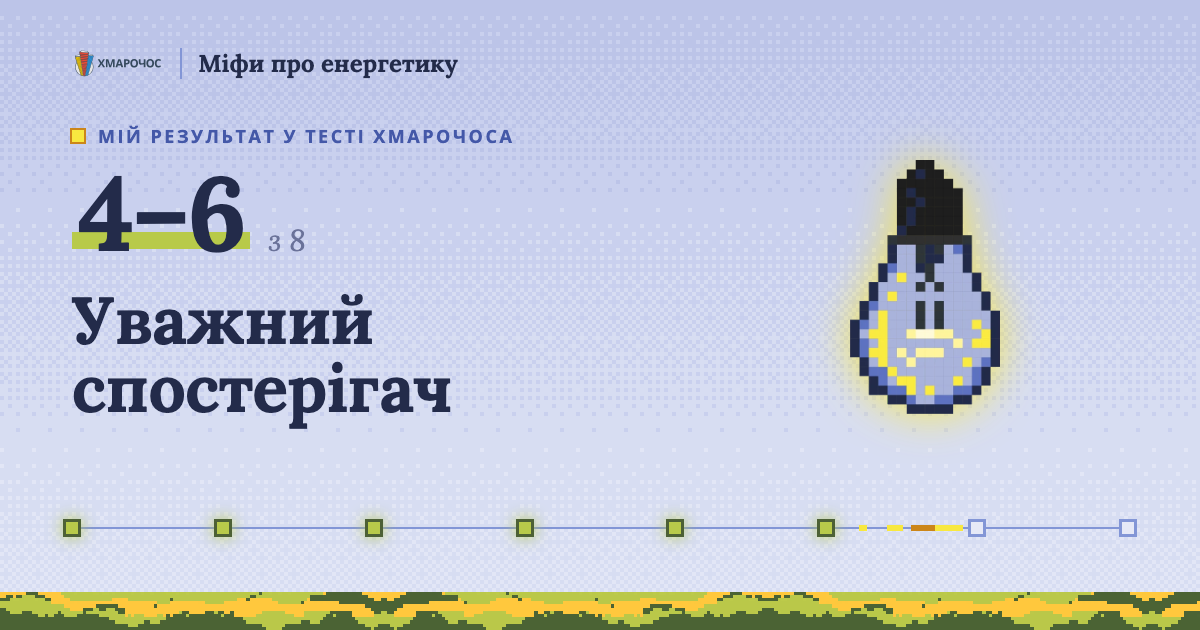
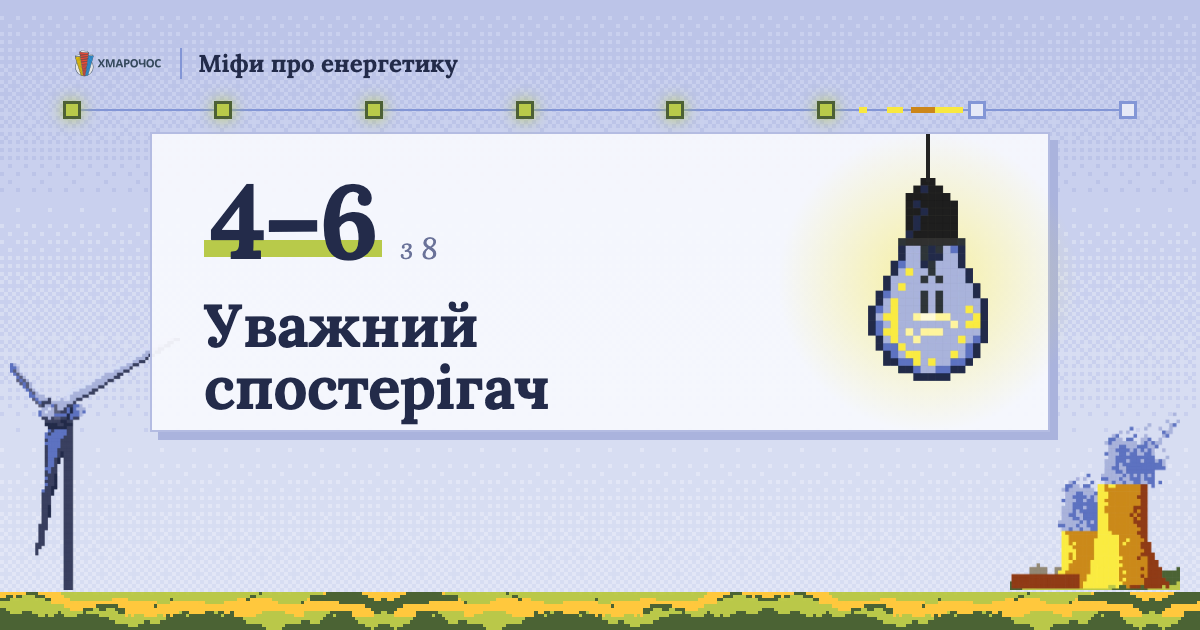
Мережа: без дрібних заголовків капсом; шер-сторінки з точними балами /s/0–8 зі своїми OG; OG у вигляді плашки результату; запасне копіювання для вбудованих браузерів; бали в тексті поширення

diff --git a/og-src/og.html b/og-src/og.html
@@ -27,7 +27,7 @@ body.night .ground { background-image: url("../public/art/px/hills-night.png"); 
 .px { image-rendering: pixelated; display: block; }
 
 /* старт */
-.start .text { position: absolute; left: 72px; top: 136px; width: 500px; }
+.start .text { position: absolute; left: 72px; top: 150px; width: 500px; }
 .start h1 { margin: 16px 0 0; font: 700 70px/1.02 "Lora", serif; letter-spacing: -.015em; }
 .cta { display: inline-flex; align-items: center; gap: 22px; margin-top: 34px; height: 78px; padding: 0 32px 6px; background: var(--amber); color: var(--text); font-weight: 700; font-size: 26px; box-shadow: inset 0 0 0 3px var(--text), inset 0 -10px 0 0 var(--amber-2), inset 0 -10px 0 3px var(--text); }
 .plate { position: absolute; }
@@ -35,26 +35,37 @@ body.night .ground { background-image: url("../public/art/px/hills-night.png"); 
 .start .plate img { width: 100%; }
 
 /* лінія мережі */
-.grid { position: absolute; left: 72px; right: 72px; bottom: 92px; height: 20px; }
+.grid { position: absolute; left: 72px; right: 72px; top: 100px; height: 20px; }
 .grid::before { content: ""; position: absolute; left: 0; right: 0; top: 9px; height: 2px; background: var(--line-2); }
 .grid i { position: absolute; top: 1px; width: 18px; height: 18px; transform: translateX(-50%); background: var(--bg-2); border: 3px solid var(--line-2); }
 .grid i.on { background: #b8ca4a; border-color: #4d6135; box-shadow: 0 0 16px rgba(184,202,74,.9); }
 .grid .pulse { position: absolute; top: 7px; width: 120px; height: 6px; background: linear-gradient(90deg, transparent 0 16px, var(--amber) 16px 24px, transparent 24px 44px, var(--amber) 44px 60px, transparent 60px 68px, var(--orange) 68px 92px, var(--amber) 92px 120px); }
 
-/* рівень */
+/* рівень: плашка як на сайті — світла, тонка лінія, піксельна тінь; арт усередині праворуч */
 .lvl { display: none; }
+.card { position: absolute; left: 150px; right: 150px; top: 132px; height: 300px; background: rgba(247,248,253,.95); border: 2px solid var(--line); box-shadow: 8px 8px 0 var(--cloud); }
+.card .text { position: absolute; left: 52px; top: 40px; width: 560px; }
+.card .art { position: absolute; right: 60px; top: 0; bottom: 0; display: grid; place-items: center; }
+.card .art img { position: relative; image-rendering: auto; }
+.card .art::before { content: ""; position: absolute; left: 50%; top: 50%; width: 300px; height: 300px; transform: translate(-50%, -50%); background: radial-gradient(closest-side, rgba(248,232,64,.5), rgba(248,232,64,0)); }
+.card .art.warm::before { background: radial-gradient(closest-side, rgba(252,150,50,.45), rgba(252,150,50,0)); }
+/* лампочка висить на шнурі від верхнього краю плашки */
+.card .art.hang { place-items: start center; padding-top: 44px; }
+.card .art.hang::after { content: ""; position: absolute; left: 50%; top: 0; width: 4px; height: 48px; transform: translateX(-50%); background: #232323; }
+.mill, .plant { position: absolute; bottom: 40px; image-rendering: auto; }
+.mill { left: 10px; width: 170px; }
+.plant { right: 20px; width: 170px; }
 body.level .start { display: none; }
 body.level .lvl { display: block; }
-.lvl .text { position: absolute; left: 72px; top: 124px; width: 640px; }
-.score { display: flex; align-items: baseline; gap: 18px; margin-top: 18px; }
+
+.score { display: flex; align-items: baseline; gap: 18px; }
 .score b { font: 700 104px/.9 "Lora", serif; color: var(--text); letter-spacing: -.03em; padding: 0 6px; background: linear-gradient(transparent 70%, #b8ca4a 70% 88%, transparent 88%); }
 .score span { font: italic 400 30px "Lora", serif; color: var(--mute); }
-.lvl h1 { margin: 26px 0 0; font: 700 66px/1.04 "Lora", serif; letter-spacing: -.01em; }
-.lvl .plate { right: 80px; top: 112px; width: 390px; height: 350px; display: grid; place-items: center; background: none; box-shadow: none; }
+.lvl h1 { margin: 26px 0 0; font: 700 60px/1.04 "Lora", serif; letter-spacing: -.01em; }
 
 
-.lvl .plate img { position: relative; image-rendering: auto; filter: drop-shadow(0 0 22px rgba(248,232,64,.9)); }
-.lvl .plate.warm img { filter: drop-shadow(0 0 22px rgba(252,150,50,.8)); }
+
+
 </style>
 </head>
 <body>
@@ -62,7 +73,6 @@ body.level .lvl { display: block; }
 
   <div class="start">
     <div class="text">
-      <div class="cap">Тест · Енергетика</div>
       <h1>Міфи про українську енергетику</h1>
       <div class="cta">Пройти тест <svg viewBox="0 0 22 10" width="34" height="16" fill="none" stroke="currentColor" stroke-width="1.6"><path d="M0 5h20M16 1l4 4-4 4"/></svg></div>
     </div>
@@ -70,12 +80,15 @@ body.level .lvl { display: block; }
   </div>
 
   <div class="lvl">
-    <div class="text">
-      <div class="cap">Мій результат у тесті Хмарочоса</div>
-      <div class="score"><b id="range"></b><span>з 8</span></div>
-      <h1 id="title"></h1>
+    <img class="mill" src="../public/art/windmill.webp" alt="">
+    <img class="plant" src="../public/art/plant.webp" alt="">
+    <div class="card">
+      <div class="text">
+        <div class="score"><b id="range"></b><span>з 8</span></div>
+        <h1 id="title"></h1>
+      </div>
+      <div class="art" id="plate"><img id="art" alt=""></div>
     </div>
-    <div class="plate" id="plate"><img class="px" id="art" alt=""></div>
   </div>
 
   <div class="grid" id="grid"></div>
@@ -83,23 +96,27 @@ body.level .lvl { display: block; }
 
 <script>
   const LEVELS = {
-    hostage: { title: "Заручник інфопростору", range: "0–3", max: 3, art: "candle", w: 112, warm: true },
-    observer: { title: "Уважний спостерігач", range: "4–6", max: 6, art: "bulb-lamp", w: 150 },
-    analyst: { title: "Енергетичний аналітик", range: "7–8", max: 8, art: "battery", w: 340 },
+    hostage: { title: "Заручник інфопростору", range: "0–3", max: 3, art: "candle", w: 100, warm: true },
+    observer: { title: "Уважний спостерігач", range: "4–6", max: 6, art: "bulb-lamp", w: 120 },
+    analyst: { title: "Енергетичний аналітик", range: "7–8", max: 8, art: "battery", w: 260 },
   };
-  const l = LEVELS[new URLSearchParams(location.search).get("l")];
-  const lit = l ? l.max : 0;
+  // ?s=<бали> — точна кількість балів; ?l=<рівень> — діапазон рівня
+  const qs = new URLSearchParams(location.search);
+  const sc = qs.has("s") ? Number(qs.get("s")) : null;
+  const l = sc !== null ? Object.values(LEVELS).find((v) => sc <= v.max) : LEVELS[qs.get("l")];
+  const lit = l ? (sc ?? l.max) : 0;
   document.getElementById("grid").innerHTML =
     Array.from({ length: 8 }, (_, i) => `<i class="${i < lit ? "on" : ""}" style="left:${(i / 7) * 100}%"></i>`).join("") +
     `<span class="pulse" style="left:${l ? Math.min(85, (lit / 7) * 100) - 12 : 30}%"></span>`;
   if (l) {
     document.body.classList.add("level");
     document.getElementById("title").textContent = l.title;
-    document.getElementById("range").textContent = l.range;
+    document.getElementById("range").textContent = sc !== null ? String(sc) : l.range;
+    if (l.art === "bulb-lamp") document.getElementById("plate").classList.add("hang");
     const a = document.getElementById("art");
     a.src = `../public/art/${l.art}.webp`;
     a.style.width = l.w + "px";
-    if (l.warm) { document.getElementById("plate").classList.add("warm"); document.body.classList.add("night"); }
+    if (l.warm) { document.getElementById("plate").classList.add("warm"); document.body.classList.add("night"); document.querySelectorAll(".mill,.plant").forEach((e) => (e.style.filter = "brightness(.55) saturate(.7)")); }
   }
 </script>
 </body>

diff --git a/app/skins/grid/GridSkin.tsx b/app/skins/grid/GridSkin.tsx
@@ -10,13 +10,12 @@ import { useEffect, useLayoutEffect, useRef, useState } from "react";
 import { scrollToStart, type QuizApi } from "../../useQuiz";
 import { COVER_ALT, VERDICT_LABEL, intro, TOTAL, type Level, type Question, type Verdict } from "../../../data/quiz";
 import { asset } from "../../bp";
-import { SITE_URL, TEST_SHARE_TEXT, resultShareUrl } from "../../share";
+import { SITE_URL, TEST_SHARE_TEXT, resultShareUrl, scoreShareUrl } from "../../share";
 import { buzz, glide, useKeys } from "../common";
 import { FB, TG } from "../pixel/icons";
 
 /** Підписи інтерфейсу (не контент тесту) — усі в одному місці. */
 const UI = {
-  kicker: "Тест · Енергетика",
   start: "Почати тест",
   next: "Наступне твердження",
   finish: "Мій результат",
@@ -26,14 +25,11 @@ const UI = {
   sources: "Джерела:",
   again: "Пройти ще раз",
   take: "Пройти тест",
-  shareTest: "Поділитися тестом",
-  shareResult: "Поділитися результатом",
   copy: "Копіювати",
   copied: "Скопійовано",
   other: "Інше…",
   site: "hmarochos.kiev.ua",
   of: (t: number) => `з ${t}`,
-  yourResult: "Ваш результат",
   sharedResult: "Результат тесту",
   live: "підстанцій під напругою",
   nf: "Тут світла немає — сторінку не знайдено",
@@ -142,7 +138,31 @@ function Free({ src, warm, hang, className = "" }: { src: string; warm?: boolean
   );
 }
 
-function Share({ url, text, label }: { url: string; text: string; label: string }) {
+/** Копіювання з запасним шляхом: у вбудованих браузерах (Instagram, Facebook) clipboard API часто недоступний. */
+async function copyText(t: string) {
+  try {
+    await navigator.clipboard.writeText(t);
+    return true;
+  } catch {
+    const ta = document.createElement("textarea");
+    ta.value = t;
+    ta.setAttribute("readonly", "");
+    ta.style.position = "fixed";
+    ta.style.opacity = "0";
+    document.body.append(ta);
+    ta.select();
+    let ok = false;
+    try {
+      ok = document.execCommand("copy");
+    } catch {
+      /* не вдалося */
+    }
+    ta.remove();
+    return ok;
+  }
+}
+
+function Share({ url, text }: { url: string; text: string }) {
   const [copied, setCopied] = useState(false);
   const [native, setNative] = useState(false);
   useEffect(() => {
@@ -154,12 +174,9 @@ function Share({ url, text, label }: { url: string; text: string; label: string 
   };
   const copy = async () => {
     buzz(8);
-    try {
-      await navigator.clipboard.writeText(`${text} ${url}`);
+    if (await copyText(`${text} ${url}`)) {
       setCopied(true);
       setTimeout(() => setCopied(false), 1500);
-    } catch {
-      /* ignore */
     }
   };
   const more = async () => {
@@ -172,7 +189,6 @@ function Share({ url, text, label }: { url: string; text: string; label: string 
   };
   return (
     <div className="share">
-      <p className="cap">{label}</p>
       <div className="shareRow">
         <button type="button" className="sbtn" onClick={() => popup(`https://www.facebook.com/sharer/sharer.php?u=${encodeURIComponent(url)}`)}>
           <svg viewBox="0 0 24 24" aria-hidden>
@@ -354,10 +370,10 @@ function CountUp({ to }: { to: number }) {
   return <>{n}</>;
 }
 
-function ResultBody({ level, history, onRestart }: { level: Level; history?: boolean[]; onRestart?: () => void }) {
-  const score = history?.filter(Boolean).length;
-  // на шер-сторінці історії немає — показуємо мережу за верхньою межею рівня
-  const shown = history ?? Array.from({ length: level.max }, () => true);
+function ResultBody({ level, history, fixed, onRestart }: { level: Level; history?: boolean[]; fixed?: number; onRestart?: () => void }) {
+  const score = history ? history.filter(Boolean).length : fixed;
+  // на шер-сторінці історії немає — вмикаємо стільки підстанцій, скільки балів
+  const shown = history ?? Array.from({ length: fixed ?? level.max }, () => true);
   return (
     <main className="nm result">
       <div className="col">
@@ -367,7 +383,7 @@ function ResultBody({ level, history, onRestart }: { level: Level; history?: boo
           <div className="rmain rise">
             <div className="rtop">
             <div>
-            <p className="cap">{history ? UI.yourResult : `${UI.sharedResult} «${intro.title}»`}</p>
+            {!history && <p className="shared">{`${UI.sharedResult} «${intro.title}»`}</p>}
             {score !== undefined ? (
               <p className="score">
                 <b>
@@ -389,9 +405,12 @@ function ResultBody({ level, history, onRestart }: { level: Level; history?: boo
             </div>
             <p className="ldesc">{level.description}</p>
             {history ? (
-              <Share url={resultShareUrl(level.slug)} text={level.shareText} label={UI.shareResult} />
+              <Share
+                url={score !== undefined ? scoreShareUrl(score) : resultShareUrl(level.slug)}
+                text={score !== undefined ? `${score} з ${TOTAL}. ${level.shareText}` : level.shareText}
+              />
             ) : (
-              <Share url={`${SITE_URL}/`} text={TEST_SHARE_TEXT} label={UI.shareTest} />
+              <Share url={`${SITE_URL}/`} text={TEST_SHARE_TEXT} />
             )}
             {onRestart ? (
               <button
@@ -418,8 +437,8 @@ function ResultBody({ level, history, onRestart }: { level: Level; history?: boo
   );
 }
 
-export function ResultPage({ level }: { level: Level }) {
-  return <ResultBody level={level} />;
+export function ResultPage({ level, score }: { level: Level; score?: number }) {
+  return <ResultBody level={level} fixed={score} />;
 }
 
 export function NotFound() {
@@ -457,7 +476,6 @@ export default function GridSkin({ quiz }: { quiz: QuizApi }) {
           <Head />
           <div className="hero">
             <div className="heroText rise">
-              <p className="cap">{UI.kicker}</p>
               <h1 className="title">{intro.title}</h1>
               <Plate src={ART.cover} alt={COVER_ALT} className="heroPlate mobileOnly" />
               <p className="lead">{intro.lead}</p>

diff --git a/app/s/[score]/page.tsx b/app/s/[score]/page.tsx
@@ -1,0 +1,44 @@
+import type { Metadata } from "next";
+import { notFound } from "next/navigation";
+import { TOTAL, getLevel } from "../../../data/quiz";
+import { ResultPage } from "../../skins";
+import { OG_VERSION, scoreShareUrl, SITE_URL } from "../../share";
+
+// Шер-сторінки з точною кількістю балів: /s/0/ … /s/8/, у кожної своя OG-картинка.
+export const dynamicParams = false;
+export function generateStaticParams() {
+  return Array.from({ length: TOTAL + 1 }, (_, i) => ({ score: String(i) }));
+}
+
+const parse = (s: string) => {
+  const n = Number(s);
+  return Number.isInteger(n) && n >= 0 && n <= TOTAL ? n : null;
+};
+
+export async function generateMetadata({ params }: { params: Promise<{ score: string }> }): Promise<Metadata> {
+  const n = parse((await params).score);
+  if (n === null) return {};
+  const lvl = getLevel(n);
+  const title = `Мій результат — ${n} з ${TOTAL}, «${lvl.title}» · Міфи про енергетику`;
+  const ogImage = `${SITE_URL}/og-s${n}.png?v=${OG_VERSION}`;
+  return {
+    title,
+    description: lvl.description,
+    openGraph: {
+      title,
+      description: lvl.description,
+      url: scoreShareUrl(n),
+      siteName: "Хмарочос",
+      locale: "uk_UA",
+      type: "website",
+      images: [{ url: ogImage, width: 1200, height: 630, alt: `${n} з ${TOTAL} — ${lvl.title}` }],
+    },
+    twitter: { card: "summary_large_image", title, description: lvl.description, images: [ogImage] },
+  };
+}
+
+export default async function ScoreSharePage({ params }: { params: Promise<{ score: string }> }) {
+  const n = parse((await params).score);
+  if (n === null) notFound();
+  return <ResultPage level={getLevel(n)} score={n} />;
+}

diff --git a/app/share.ts b/app/share.ts
@@ -13,5 +13,10 @@ export function resultShareUrl(slug: string): string {
   return `${SITE_URL}/r/${slug}/`;
 }
 
+/** URL шер-сторінки з точною кількістю балів: /s/{0..8}/ — зі своєю OG-картинкою. */
+export function scoreShareUrl(score: number): string {
+  return `${SITE_URL}/s/${score}/`;
+}
+
 /** Версія OG-картинок: міняємо, коли картинки перемальовано, щоб соцмережі взяли нові. */
-export const OG_VERSION = "6";
+export const OG_VERSION = "7";

diff --git a/app/skins/grid/grid.css b/app/skins/grid/grid.css
@@ -1514,3 +1514,10 @@ html:has(.nm) {
     width: 240px;
   }
 }
+
+/* на чужій шер-сторінці — звичайний рядок над балами, без дрібних заголовків капсом */
+.nm .shared {
+  margin: 0 0 6px;
+  font: italic 400 16px/1.4 "Lora", serif;
+  color: var(--mute);
+}
